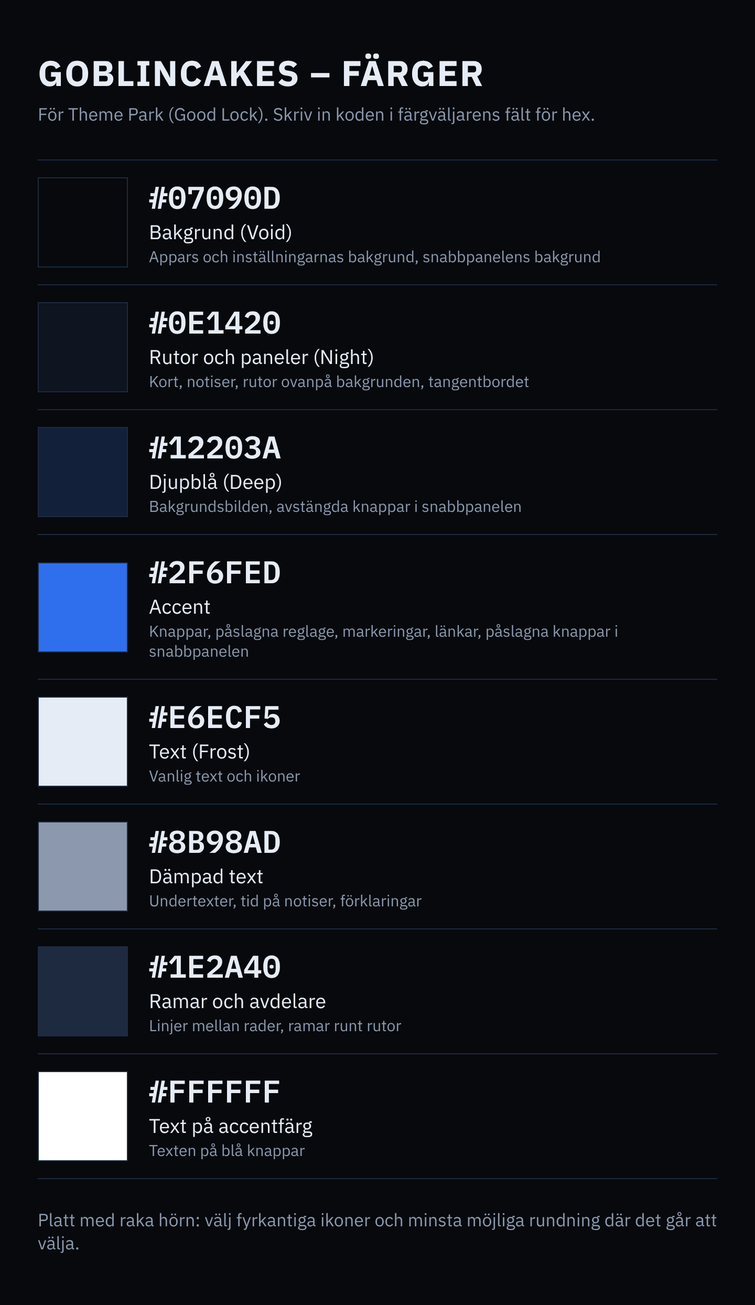
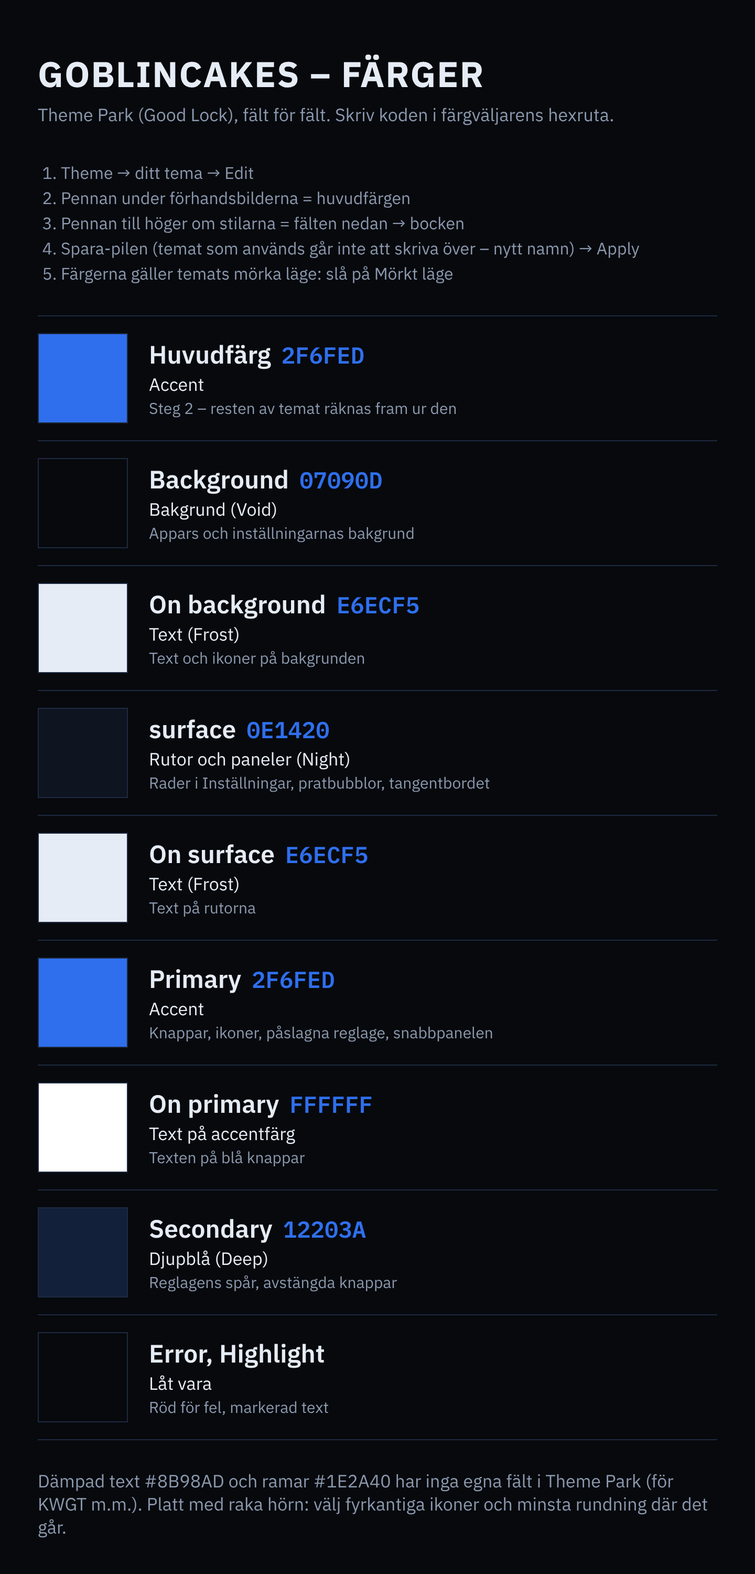
Mobilen: färglistan med Theme Parks riktiga fältnamn och var de finns
Provat på S24 Ultra via adb: huvudfärg + nio fält (Background, On background,
surface, On surface, Primary, On primary, Secondary, Error, Highlight).

diff --git a/mobil/farglista.html b/mobil/farglista.html
@@ -8,19 +8,29 @@
   .sub{color:#8B98AD;font-size:17px;margin-bottom:32px}
   .row{display:flex;align-items:center;gap:20px;padding:16px 0;border-top:1px solid #1E2A40}
   .sw{width:84px;height:84px;flex:none;border:1px solid #1E2A40}
-  .hex{font-family:"IBM Plex Mono",monospace;font-size:30px;font-weight:600}
-  .what{font-size:19px;margin-top:2px}
+  .field{font-size:24px;font-weight:600}
+  .hex{font-family:"IBM Plex Mono",monospace;font-size:22px;color:#2F6FED;margin-left:10px}
+  .what{font-size:17px;margin-top:2px}
   .ex{color:#8B98AD;font-size:15px;margin-top:2px}
+  ol{color:#8B98AD;font-size:16px;margin:0 0 28px;padding-left:22px;line-height:1.5}
 </style></head><body><div class="wrap">
 <h1>GOBLINCAKES – FÄRGER</h1>
-<div class="sub">För Theme Park (Good Lock). Skriv in koden i färgväljarens fält för hex.</div>
-<div class="row"><div class="sw" style="background:#07090D"></div><div><div class="hex">#07090D</div><div class="what">Bakgrund (Void)</div><div class="ex">Appars och inställningarnas bakgrund, snabbpanelens bakgrund</div></div></div>
-<div class="row"><div class="sw" style="background:#0E1420"></div><div><div class="hex">#0E1420</div><div class="what">Rutor och paneler (Night)</div><div class="ex">Kort, notiser, rutor ovanpå bakgrunden, tangentbordet</div></div></div>
-<div class="row"><div class="sw" style="background:#12203A"></div><div><div class="hex">#12203A</div><div class="what">Djupblå (Deep)</div><div class="ex">Bakgrundsbilden, avstängda knappar i snabbpanelen</div></div></div>
-<div class="row"><div class="sw" style="background:#2F6FED"></div><div><div class="hex">#2F6FED</div><div class="what">Accent</div><div class="ex">Knappar, påslagna reglage, markeringar, länkar, påslagna knappar i snabbpanelen</div></div></div>
-<div class="row"><div class="sw" style="background:#E6ECF5"></div><div><div class="hex">#E6ECF5</div><div class="what">Text (Frost)</div><div class="ex">Vanlig text och ikoner</div></div></div>
-<div class="row"><div class="sw" style="background:#8B98AD"></div><div><div class="hex">#8B98AD</div><div class="what">Dämpad text</div><div class="ex">Undertexter, tid på notiser, förklaringar</div></div></div>
-<div class="row"><div class="sw" style="background:#1E2A40"></div><div><div class="hex">#1E2A40</div><div class="what">Ramar och avdelare</div><div class="ex">Linjer mellan rader, ramar runt rutor</div></div></div>
-<div class="row" style="border-bottom:1px solid #1E2A40"><div class="sw" style="background:#FFFFFF"></div><div><div class="hex">#FFFFFF</div><div class="what">Text på accentfärg</div><div class="ex">Texten på blå knappar</div></div></div>
-<div class="sub" style="margin:28px 0 0">Platt med raka hörn: välj fyrkantiga ikoner och minsta möjliga rundning där det går att välja.</div>
+<div class="sub">Theme Park (Good Lock), fält för fält. Skriv koden i färgväljarens hexruta.</div>
+<ol>
+  <li>Theme → ditt tema → Edit</li>
+  <li>Pennan under förhandsbilderna = huvudfärgen</li>
+  <li>Pennan till höger om stilarna = fälten nedan → bocken</li>
+  <li>Spara-pilen (temat som används går inte att skriva över – nytt namn) → Apply</li>
+  <li>Färgerna gäller temats mörka läge: slå på Mörkt läge</li>
+</ol>
+<div class="row"><div class="sw" style="background:#2F6FED"></div><div><div class="field">Huvudfärg<span class="hex">2F6FED</span></div><div class="what">Accent</div><div class="ex">Steg 2 – resten av temat räknas fram ur den</div></div></div>
+<div class="row"><div class="sw" style="background:#07090D"></div><div><div class="field">Background<span class="hex">07090D</span></div><div class="what">Bakgrund (Void)</div><div class="ex">Appars och inställningarnas bakgrund</div></div></div>
+<div class="row"><div class="sw" style="background:#E6ECF5"></div><div><div class="field">On background<span class="hex">E6ECF5</span></div><div class="what">Text (Frost)</div><div class="ex">Text och ikoner på bakgrunden</div></div></div>
+<div class="row"><div class="sw" style="background:#0E1420"></div><div><div class="field">surface<span class="hex">0E1420</span></div><div class="what">Rutor och paneler (Night)</div><div class="ex">Rader i Inställningar, pratbubblor, tangentbordet</div></div></div>
+<div class="row"><div class="sw" style="background:#E6ECF5"></div><div><div class="field">On surface<span class="hex">E6ECF5</span></div><div class="what">Text (Frost)</div><div class="ex">Text på rutorna</div></div></div>
+<div class="row"><div class="sw" style="background:#2F6FED"></div><div><div class="field">Primary<span class="hex">2F6FED</span></div><div class="what">Accent</div><div class="ex">Knappar, ikoner, påslagna reglage, snabbpanelen</div></div></div>
+<div class="row"><div class="sw" style="background:#FFFFFF"></div><div><div class="field">On primary<span class="hex">FFFFFF</span></div><div class="what">Text på accentfärg</div><div class="ex">Texten på blå knappar</div></div></div>
+<div class="row"><div class="sw" style="background:#12203A"></div><div><div class="field">Secondary<span class="hex">12203A</span></div><div class="what">Djupblå (Deep)</div><div class="ex">Reglagens spår, avstängda knappar</div></div></div>
+<div class="row" style="border-bottom:1px solid #1E2A40"><div class="sw" style="background:#07090D"></div><div><div class="field">Error, Highlight</div><div class="what">Låt vara</div><div class="ex">Röd för fel, markerad text</div></div></div>
+<div class="sub" style="margin:28px 0 0">Dämpad text #8B98AD och ramar #1E2A40 har inga egna fält i Theme Park (för KWGT m.m.). Platt med raka hörn: välj fyrkantiga ikoner och minsta rundning där det går.</div>
 </div></body></html>

diff --git a/docs/anteckningar.md b/docs/anteckningar.md
@@ -183,7 +183,7 @@ Kör `git pull`, svara sedan med vilket steg hen är på (första ej avbockade s
 - **Kakan uppdaterar WoW-tilläggen / GoblinUp (18 nov, användarens idé: "väldigt bra idé" – bara idé, inget byggt):** förebild [LemonUp](https://github.com/archcorsair/lemonup) (Rust, TUI + CLI, MIT; GitHub/WoWInterface/TukUI/Wago, ångra, WTF-backup, Retail + Forever). Användaren saknar inget i WowUp-CF, gillar LemonUps utseende. **Ingen CurseForge** (användarens beslut 18 nov: inte ett fan av Overwolf; nyckeln är personlig, får inte delas = aldrig i repot/imagen, villkoren förbjuder konkurrerande produkter). Av tilläggen som WowUp hämtar från CF har de flesta Wago/WoWI-ID i `.toc` (BigWigs, LittleWigs, BugSack, SimulationCraft, EllesmereUI, atrocityEssentials); bara CF: Forever Graphics Enhancer, troligen Follow The Arrow och Naowh Forever (GitHub-repon med samma namn av andra), BugGrabber okollad; användarens egna Keystone Display (har GitHub-repo), Simple Quest Remover, Simple Gear Planner kan läggas på GitHub/Wago. Kakan-delen: via LemonUps CLI eller en egen GoblinUp (ungefär en stor ändring). Provat för hand 18 nov: hittade inte WoW själv (prefixet på Spel-disken är ingen vanlig plats → sökvägen fick skrivas in; ett Config-val kan fylla i den). Wago-nyckeln: KeyRejected – LemonUp vill ha **Wago Addons**-nyckeln (addons.wago.io, bara för Patreon-supportrar), troligen inte samma som en wago.io-nyckel (WeakAuras); GitHub/WoWInterface/TukUI går utan nyckel.
 - **Kakan snabbare med Qwen (16 nov, användarens önskan: sparas som framtida plan – inget byggt):** användaren kör bara qwen3.5:9b nu (6,9 GB, 64k). Tidigare mätning med gemma4 och det som redan är gjort: grep "Kakan snabbare (24 okt)". Med bara Qwen försvinner modellbytet (20 s) om även kodrollen är qwen – kolla `roles` i `~/.config/goblincakes/ollama.json`. **Steg 0, först:** mät på riktiga datorn med qwen (ändrar inget): laddtid, tid till första ord, promptens storlek på en enkel fråga (proven 7 nov: en vanlig fråga börjar på 21–24k tokens). Välj sedan utifrån siffrorna. **Ser snabbare ut:** (1) svaret ord för ord (streaming) – viktigast med Qwen som skriver långa svar; `chat()` i `goblinai.py` + svarsrutan i `Main.qml`, verktygsanropen pusslas ihop ur strömmen; medelstor (veckans stora ändring). (2) tankarna live som en grå rad medan hon tänker (Qwen kan tänka upp till taket 8 000 tokens) – kommer med streamingen. (3) säga ärligt när modellen laddas: kolla `/api/ps` före frågan → "Laddar … ~10 s" (litet). **Snabbare på riktigt:** (4) förvärma när Goblin AI öppnas/när man börjar skriva (`warm_up` finns i goblincakes-ollama; kostar ~22 W medan modellen ligger inne) (litet). (5) mindre prompt för enkla frågor – bara de verktyg som behövs (mät först). (6) mindre logg till långa WoW-frågor – bara den pull/de rader som spelar roll (148 s med gemma4 24 okt). (7) modellerna från Dittan (SATA) till NVMe – ingen kod, flytta i Lokal AI. Förslag: steg 0, sedan 3+4, sedan streaming. **Steg 0 mätt 18 nov** (qwen3.5:9b, RTX 3060, Kakans riktiga kod från repot via `ask()` + omspelning mot Ollama): varje fråga = ~7 800 tokens in, varav verktygslistan 37 verktyg ≈ 23 600 tecken (~6 000 tokens), systemprompten bara ~800 tecken. Inladdad: enkel fråga 0,3–0,6 s (prompten läses 7 800 tok på 0,06 s med cache, 0,39 s utan = ~20 000 tok/s – prompten är **inte** flaskhalsen); första ord 0,1–0,4 s; skrivfart ~50 tok/s. Första frågan efter laddning: 6–7 s (laddning 2,1 s ur filcachen + 4,4 s första körningen på kortet). Från disk (kall filcache, ej mätt – kräver root): uppskattat 13 s + 4 s (6,9 GB på OCZ-SATA ~540 MB/s). Tänkande fråga ("förklara varför SSD…"): 609 tok ut på 13 s – tiden är skrivandet. WoW-parse: två anrop, 4,9 s. **Ingen NVMe i datorn** (lsblk: bara SATA – Kingston 120G, Samsung QVO 1TB, OCZ Dittan) → punkt 7 utgår. Slutsats: förvärmning (4) tar bort 6–17 s på första frågan; streaming (1) gör långa svar (13 s) läsbara från första sekunden; laddningsbesked (3) och mindre prompt (5) ger nästan inget. **Användarens beslut 18 nov: ingen förvärmning just nu** (höga elpriser, vill inte ha de ~22 W extra) – kan tas upp igen senare. Kodrollen behålls som nu (qwen2.5-coder:14b, användaren 18 nov).
 - **Bilreparationer med Kakan (`/bil`) och Kakan från mobilen (15 nov, användarens idé – bara idé, inget byggt):** **`/bil`:** `/bil saab 9-3 vector 2008` sparar bilen som "min bil" (minnet), Kakan frågar vad som ska fixas ("byta länkarmar bak") och tar fram delar (artikelnummer om hon hittar dem), verktyg, åtdragningsmoment, steg för steg och säkerhet (pallbockar, hjulinställning efteråt) – som `/wiki`/`/sök` (ett snedstreckskommando som begränsar verktygen och slår upp före svaret), resultatet kan sparas som PDF. **Källorna är det svåra:** DIY-böcker (Haynes m.fl.) är upphovsrättsskyddade → aldrig i repot/imagen; användarens egna köpta PDF:er (eller Saabs WIS om hen har den) kan Kakan läsa lokalt, men en hel manual ryms inte → sök i den och läs bara rätt sidor = samma behov som "Kakans samtal och kunskapsminne". Utan egen manual: webben (Saab-forum, gratisguider, YouTube). gemma4 kan hitta på moment → varje siffra med källa, annars "hittade ingen källa", aldrig gissa. Storlek: ~1 session med webbsök, mer med sökbara egna manualer. **Kakan från mobilen utanför hemmet:** datorn är på; kräver att den inte går i viloläge och att Kakan körs som tjänst i bakgrunden (i dag är Goblin AI ett fönster). Vägar: (1) **Tailscale + egen webbsida för Kakan** (mobilens webbläsare, inga öppna portar, bara egna inloggade enheter, Tailscale-appen på telefonen, chattsidan måste byggas – rekommenderat, kan även visa bil-PDF:erna); (2) **Telegram-bot** (enklast, notiser gratis, men samtalen via Telegrams servrar – finns som alternativ under "hela familjen"); (3) fjärrskrivbord (KRdp i Plasma/RustDesk – inget att bygga men klumpigt på mobilen, visar hela datorn). **Säkerhet:** utifrån bara den lägre behörighetsnivån (söka, svara, skicka PDF) – aldrig systemkommandon. Storlek: ~1–2 sessioner.
-- **GC-utseende på Android-telefonen (12 nov, användarens idé att testa – bara idé, inget byggt):** telefonen är en Samsung Galaxy S24 Ultra, Nova finns. Utan root (root löser ut Knox för alltid → Samsung Wallet/bankappar kan sluta fungera). **System via Good Lock** (Galaxy Store, gratis): Theme Park (eget tema med exakta färger: Void #07090D/Night #0E1420 bakgrund, accent #2F6FED, text #E6ECF5, ramar #1E2A40; även ikonform), QuickStar (statusfältet), LockStar (låsskärmen), Keys Cafe (tangentbordet), NavStar (navigeringen). **Hemskärm, två vägar:** (1) One UI Home + Home Up + Theme Park-ikoner (rekommenderat – smidigast gester/animationer på Samsung); (2) Nova (mer kontroll, men lite hackigare gester på Samsung; Nova får nästan inga uppdateringar sedan 2025 enligt vad jag minns – kontrollera). **Dashboard-känslan:** KWGT (Kustom Widget) – platta rutor med raka hörn och tunna ramar som Dashboard-ramarna (klocka, batteri, nästa raid, Spotify); KWGT tar egna typsnitt (Chakra Petch, IBM Plex Sans) – Samsungs systemtypsnitt går inte att byta utan krångel. Går inte utan root: startanimationen, djupare systemdelar. **Det vi kan göra från repot om användaren ber om det:** bakgrunder i S24 Ultras format (1440×3120, GC-bakgrunden + en mörk platt), en färdig KWGT-förinställning i GC-stil, en färglista fält för fält för Theme Park, ett ikonpaket med goblinhuvudet (om Nova). **Byggt 19 nov (användaren: "gör båda", Good Lock installerat):** `mobil/` – `gc-mobil.png` (Deep + loggan i egna färger, ovanför mitten), `gc-mobil-mork.png` (Void + loggan ton-i-ton), `farglista.png` (Theme Park-färgerna per roll; fältnamnen i Theme Park okända – kartläggs när användaren visar dem), källor `.svg`/`farglista.html`, README. Bara renderat och granskat i molnet, inte provat på telefonen. **Theme Park via adb – görs hemma vid datorn (19 nov, användaren valde väg 1):** användaren har skapat temat med `gc-mobil.png` men hittar inte färglistan per del. Molnsessionen når inte telefonen och kom inte åt guider som visar Theme Parks färgfält. **Planen (Claude Code på riktiga datorn, ej provat):** (1) telefonen: Inställningar → Om telefonen → Programvaruinformation → tryck 7 gånger på Byggnummer → Utvecklaralternativ → USB-felsökning på; (2) datorn: finns `adb` (`android-tools`)? annars fråga användaren innan något installeras (t.ex. i toolbox/distrobox eller rpm-ostree – ändrar datorn); (3) USB-kabel, godkänn datorns nyckel på telefonen, `adb devices`; (4) `adb exec-out screencap -p > fil.png` → titta → `adb shell input tap x y` / `input text` / `input swipe` – en skärmbild efter varje steg; (5) Good Lock → Theme Park → öppna användarens tema → hitta redigeringen av färger per del → sätt färgerna enligt `mobil/farglista.png` (bakgrund #07090D, rutor #0E1420, accent #2F6FED, text #E6ECF5, dämpad #8B98AD, ramar #1E2A40, text på accent #FFFFFF) → spara → Använd; (6) skriv in Theme Parks riktiga fältnamn → färg här och i `mobil/farglista.html`/README (rendera om PNG:n), så nästa gång går utan adb. Avsluta: USB-felsökning kan stängas av igen. Trycker aldrig i annat än Good Lock/Theme Park. Reserv: scrcpy (användaren klickar själv, Claude läser skärmbilder).
+- **GC-utseende på Android-telefonen (12 nov, användarens idé att testa – bara idé, inget byggt):** telefonen är en Samsung Galaxy S24 Ultra, Nova finns. Utan root (root löser ut Knox för alltid → Samsung Wallet/bankappar kan sluta fungera). **System via Good Lock** (Galaxy Store, gratis): Theme Park (eget tema med exakta färger: Void #07090D/Night #0E1420 bakgrund, accent #2F6FED, text #E6ECF5, ramar #1E2A40; även ikonform), QuickStar (statusfältet), LockStar (låsskärmen), Keys Cafe (tangentbordet), NavStar (navigeringen). **Hemskärm, två vägar:** (1) One UI Home + Home Up + Theme Park-ikoner (rekommenderat – smidigast gester/animationer på Samsung); (2) Nova (mer kontroll, men lite hackigare gester på Samsung; Nova får nästan inga uppdateringar sedan 2025 enligt vad jag minns – kontrollera). **Dashboard-känslan:** KWGT (Kustom Widget) – platta rutor med raka hörn och tunna ramar som Dashboard-ramarna (klocka, batteri, nästa raid, Spotify); KWGT tar egna typsnitt (Chakra Petch, IBM Plex Sans) – Samsungs systemtypsnitt går inte att byta utan krångel. Går inte utan root: startanimationen, djupare systemdelar. **Det vi kan göra från repot om användaren ber om det:** bakgrunder i S24 Ultras format (1440×3120, GC-bakgrunden + en mörk platt), en färdig KWGT-förinställning i GC-stil, en färglista fält för fält för Theme Park, ett ikonpaket med goblinhuvudet (om Nova). **Byggt 19 nov (användaren: "gör båda", Good Lock installerat):** `mobil/` – `gc-mobil.png` (Deep + loggan i egna färger, ovanför mitten), `gc-mobil-mork.png` (Void + loggan ton-i-ton), `farglista.png` (Theme Park-färgerna per roll; fältnamnen i Theme Park okända – kartläggs när användaren visar dem), källor `.svg`/`farglista.html`, README. Bara renderat och granskat i molnet, inte provat på telefonen. **Theme Park via adb – görs hemma vid datorn (19 nov, användaren valde väg 1):** användaren har skapat temat med `gc-mobil.png` men hittar inte färglistan per del. Molnsessionen når inte telefonen och kom inte åt guider som visar Theme Parks färgfält. **Planen (Claude Code på riktiga datorn, ej provat):** (1) telefonen: Inställningar → Om telefonen → Programvaruinformation → tryck 7 gånger på Byggnummer → Utvecklaralternativ → USB-felsökning på; (2) datorn: finns `adb` (`android-tools`)? annars fråga användaren innan något installeras (t.ex. i toolbox/distrobox eller rpm-ostree – ändrar datorn); (3) USB-kabel, godkänn datorns nyckel på telefonen, `adb devices`; (4) `adb exec-out screencap -p > fil.png` → titta → `adb shell input tap x y` / `input text` / `input swipe` – en skärmbild efter varje steg; (5) Good Lock → Theme Park → öppna användarens tema → hitta redigeringen av färger per del → sätt färgerna enligt `mobil/farglista.png` (bakgrund #07090D, rutor #0E1420, accent #2F6FED, text #E6ECF5, dämpad #8B98AD, ramar #1E2A40, text på accent #FFFFFF) → spara → Använd; (6) skriv in Theme Parks riktiga fältnamn → färg här och i `mobil/farglista.html`/README (rendera om PNG:n), så nästa gång går utan adb. Avsluta: USB-felsökning kan stängas av igen. Trycker aldrig i annat än Good Lock/Theme Park. Reserv: scrcpy (användaren klickar själv, Claude läser skärmbilder). **GJORT 19 nov via adb (Googles platform-tools i `~/.local/share/goblincakes/platform-tools/`, ingen udev-regel behövdes; Samsung kallar Byggnummer "Kompileringsnr"):** Theme Park → tema → Edit: pennan under förhandsbilderna = huvudfärg (hexruta), sedan stilraden + pennan till höger = nio fält: Background 07090D, On background E6ECF5, surface 0E1420, On surface E6ECF5, Primary 2F6FED, On primary FFFFFF, Secondary 12203A (var 0E3FA1), Error och Highlight (402D06) orörda. Temat som används kan inte skrivas över → sparat som nytt tema "GOBLINCAKES" (namn: bokstäver/siffror, max 20) och Apply. Färgerna syns i mörkt läge (telefonen stod i ljust). Snabbpanelen blir ljusblå (Primary inblandad) – Theme Park har egen flik "Quick panel". `farglista.html`/`.png` omgjorda med fältnamnen och stegen.
 - **Bågskyttedagbok (11 nov, användaren: "en bra idé" – bara idé, inget byggt):** träningsdagbok för bågskyttet (hittills bara Ianseo, som är för tävlingar). **Plattform:** användaren har stationära datorn + en Lenovo Chromebook Duet 11M889 (MediaTek, ARM, 8 GB/128 GB, 2-i-1) – GC går inte på den (imagerna bara x86_64, MrChromebox stöder inte ARM) → dagboken = **webbapp som körs på stationära datorn** (som Ianseo), installerbar som app (PWA) i Chrome på Duet:en och i telefonen. **Utan nät på banan:** passen sparas lokalt i appen och skickas till stationära datorn när den nås (hemma, eller via Cloudflare-tunnel + lösenord som Ianseo om användaren vill nå den borta). Datan bor på stationära datorn. **Pekläge (Duet:en utan tangentbord vid tavlan):** tryck var varje pil satt på en bild av tavlan → poäng + träffbild direkt; även bara summa per omgång. **Innehåll:** pass och poäng per rond (18 m inne, 70 m ute m.fl.), träffbild/gruppens drift och spridning (t.ex. sämre i slutet av passet), siktmärken per avstånd + uträknade för oprovade avstånd, utrustning (lemmar, dragvikt, pilar spine/längd) kopplad till passen, kurvor över tid (goblin graph-stil), tävlingsresultat hämtade ur Ianseo, och **Kakan analyserar** som med WCL/CS2 ("snittet sjunker efter pil 40", "bäst med nya pilarna").
 - **GOBLINCAKES Dashboard – en utökad AppGrid i stället för dockan och toppfältet (9 nov, användarens idé; **bygget påbörjat 10 nov – se ## GOBLINCAKES Dashboard – bygget**; mockup: https://claude.ai/artifact/QHnDzvKEW8fwPTD1Pveeho):** **Meta** tar fram dashboarden (som AppGrid i dag). När den används syns varken dockan eller toppfältet; på skrivbordet syns då bara **klocka, ethernet, ljud och Spelas nu-widgeten**, resten av systemfältet (Bluetooth, urklipp, enheter, notiser m.m.) hittas inne i dashboarden. **Layout:** överst de **aktiva programmen** på en rad, längst ner **programmen** (som dockan), i mitten **WoW Stats och CS2 Stats** (samma siffror som GoblinRecorder – inga programfönster visas i dashboarden). **Tryck för mer bredvid:** trycker man på en karaktär (t.ex. Kaytho – karaktärerna hämtas från GoblinRecorder) visas dess stats i en ruta bredvid; gärna också en bild av karaktären om det inte blir för tungt (användaren osäker). I CS2 Stats visas på samma sätt detaljer för det man trycker på. **Projekt:** egna projekt (t.ex. GOBLINCAKES) som man själv lägger till; trycker man på ett visas samma val som i Goblin AI:s mappmeny (PROJEKT → MAPPAR i `ai/Main.qml`): Öppna i VS Code, Claude Code här (Goblin AI:s TERMINAL), Claude Code i eget fönster (Ghostty), ev. Codex. **Tankar om bygget:** eget PySide6/QML-fönster i Configs stil, helskärm, KWin-skriptet håller det rätt; stats läses från GoblinRecorders data (inte genom att bädda in fönstret); grundversion uppskattad till 1–2 långa sessioner, karaktärsbilden (Blizzards API) en extra del. **Version 2 av mockupen (9 nov, användarens beslut):** överst de **öppna programmen** (tryck = växla), längst ner **apparna man själv valt** i Config (+ Alla program). **Vänster 1–3 ramar** (t.ex. Projekt, System – CPU/GPU/temp/RAM, Systemfältet), **höger 1–2 ramar** (t.ex. WoW Stats – karaktärer + Senaste raiden, CS2 Stats – senaste matchen); trycker man på något i en ram visas det **i mitten**. Mitten öppnas **där man lämnade den**. WoW i mitten = senaste raiden från **Warcraft Logs via API:t** (samma `wcl_query` som recorder.py/Kakans `warcraftlogs`): bossar, pulls, kill/bästa wipe, din parse, dödsfall, pullarnas stapel, knappar dödsfall/defensiva sidan/Öppna i WCL/Fråga Kakan – **inte** WCL-webbsidan i Chromium (dashboarden ska vara snabb att få upp). **Vyer:** flera sparade vyer (t.ex. SPEL och JOBB, JOBB med ramarna Byggen och Kakan), man **bläddrar** med hjulet/svep/← → och prickar visar vyn. **Config → Dashboard:** vyerna, vad varje ram visar (Projekt, System, Systemfältet, WoW Stats, CS2 Stats, Byggen, Kakan, Steam, Ingen), apparna längst ner; knappen **Anpassa** i dashboarden öppnar sidan. Ramar som inte är valda syns inte och dashboarden krymper (för den som inte spelar WoW/CS2). **Att prova: Discord i mitten (9 nov, användaren: "kan vara en jättedålig idé, men testar man inte så vet man inte"):** mitten är Discords plats – inget annat öppnas där (det man trycker på i ramarna visas i en ruta bredvid/över en sidoram). **Den riktiga Discord-appen, inte webbversionen** (användaren vill inte ha webbversionen; Wayland kan inte bädda in ett annat programs fönster): dashboarden lämnar ett tomt hål, KWin-skriptet `goblincakes-windows` lägger Discords fönster ramlöst exakt i hålet, ovanför dashboarden, och flyttar/ändrar det i takt med dashboardens `frameGeometry` – ser ut som en del av dashboarden. Ingen extra resurs: samma Discord-process som annars (webbversionen hade varit en andra Discord). **Fönsterläge:** dashboarden ska kunna vara öppen hela tiden som ett vanligt flyttbart fönster (egen namnlist, egen skärm) bredvid Meta-läget (helskärm fram/undan); val i Config → Dashboard. Att lösa: minsta storlek (Discord 800×500 → dashboardens minsta mått), minimera/visa tillsammans, Discord taget från systemfältet → tillbaka i hålet, Discord ej igång → knappen "Starta Discord" i hålet, Meta-läget måste gömma/visa Discord i takt (inget blink). Okänt tills provat på riktigt: om Discord släpar efter vid snabb dragning. **Ändrat 9 nov kväll (användaren):** Discord ligger **framme i mitten som standard**; trycker man på WoW Stats/CS2 Stats (m.fl.) visas det **i mitten medan det är öppet**, sedan tillbaka till Discord (alltså ingen ruta bredvid). Tanke om bygget: Discord läggs *under* dashboardens fönster (KWin-skriptet ändrar bara staplingen, inget minimera) när mitten visar annat → inget blink, Discord fortsätter i bakgrunden; Esc/knapp "Tillbaka till Discord". **Helskärmsläge som Plasmas "Instrumentpanel för program"** (`org.kde.plasma.kickerdash`, finns i imagen): helskärm ovanpå allt med mörk bakgrund, program i rutnät + sökning direkt när man skriver, Esc/klick utanför stänger – dashboarden ska kunna göra samma sak (KWin-genvägen öppnar, skriv = sök). **BESLUT 9 nov kväll (användaren): Discord ligger separat, inte i dashboarden** (ska kunna synas hela tiden). Allt om Discord i mitten ovan är strukket; mitten visar det man trycker på i ramarna, och vad som ska visas där bestäms när dashboarden byggs. **Känslan (samma kväll, användaren provade Instrumentpanel för program):** gillar hur den känns (helskärm, mörkt, sök direkt) – men vill ha **mer information** än den, inte mindre som i början. **Innehållet (användarens val 9 nov):** WoW Stats, CS2 Stats, System (CPU/GPU/temp/RAM + **disk**), Projekt, Systemfältet, **Spelas nu** (albumbild, start/paus, föregående/nästa), **Kvoten**; Byggen i JOBB-vyn (visat i mockupen v3: senaste bygget + de 10 senaste, mitten = lista med commit/ändring/orsak – samma källa som `buildstatus.py`). **Mockup v3 (9 nov kväll, användaren: "det blir bra"):** Spelas nu (albumbild, föregående/start-paus/nästa) nere till höger i alla vyer, Kvot nere till vänster, **Systemfältet = klickbara ikoner under GOBLINCAKES-loggan** (nätverk, ljud, Bluetooth, notiser med siffra, urklipp, enheter – tryck = liten ruta med mer). **Skrivbordet:** klockan uppe i mitten, datum + vecka mindre under, ethernet till vänster och ljud till höger om klockan; **Discord i egen ruta till vänster om ethernet, Spelas nu i egen ruta till höger om ljudet** – allt på en rad uppe i mitten. **Lika på båda sidor, inget neråt (användaren):** Steam (nedladdning/shaders) längst till vänster och Kakan (vad Goblin AI gör) längst till höger – båda syns bara medan något pågår; batterier i klockrutan: mus/handkontroll till vänster om ethernet, headset till höger om ljudet (dagens Spelas nu-widget visar musik, Discord-röst, Steam, Goblin AI och batterier – fördelas så). **Raden göms av fönster (användarens beslut 9 nov: väg 2):** raden blir ett Plasma-fält (som toppfältet, genomskinlig bakgrund mellan rutorna) som **döljer sig när ett fönster ligger där och kommer fram när musen går mot överkanten**; man trycker och den försvinner igen – som dockan i dag (Plasma 6: `dodgewindows`/`autohide`; obs från dockan: dodgewindows gömmer sig bara för det *aktiva* fönstret). Tomt skrivbord = raden syns. Bortvalt: alltid överst med reserverad höjd (väg 1), bara i dashboarden (väg 3). **Ett val, inte en ersättning (användarens beslut 9 nov):** dashboarden + skrivbordsraden är ett **alternativ** till dagens upplägg (toppfält + docka + AppGrid) – alla vill inte dölja allt. Val i Config (t.ex. Utseende → Skrivbordets upplägg: "Toppfält och docka" / "Dashboard"); byte ska gå åt båda hållen utan att något tappas (panelerna sparas/återställs). **Standard = dagens upplägg (toppfält och docka)** – användaren är mycket nöjd med det; dashboarden är ett alternativ man väljer själv.
 - **Kakan på en egen dator – extern plats för hjärnan (30 okt, användarens idé – bara idé, inget köpt eller byggt):** en minidator bredvid speldatorn som bara kör Ollama, dygnet runt. **Upplägg:** bara Ollama flyttar; Goblin AI-programmet och verktygen stannar på speldatorn (de styr hennes skrivbord, filer, spel). Kräver en inställning för var Ollama finns (i dag hårdkodat `127.0.0.1:11434` i `goblinai.py`, `aftercheck.py`, `goblincakes-ollama`), att spelvakten inte stänger av en fjärr-Ollama, och modellförslagen (`TIERS`) efter fjärrdatorns minne. **Vinster:** alltid på även under WoW/CS2, inget modellbyte när spel startar, hela RTX 3060 till spel, större modeller. **Förslaget:** NiPoGi G2 Pro (Ryzen 9 270 = 8945HS-klass, Radeon 780M, 32 GB LPDDR5 fastlött, 1 TB, OCuLink, 2×USB4, ~799 € okt 2026). Med 16–24 GB till grafiken ryms 16 GB-nivån: `gemma4:26b`, `qwen3-coder:30b`, `qwen3-vl:30b` (MoE, uppskattat 15–25 ord/s – ej uppmätt). Sämre än 3060: inläsning av långa texter (5–10× långsammare), bildgenerering (Z-Image stannar på speldatorn). Röst (Whisper/Piper) går bra på processorn. Ollama på 780M: ROCm stöder inte gfx1103 officiellt → Vulkan-läget eller `HSA_OVERRIDE_GFX_VERSION=11.0.0`. NPU:n används inte av Ollama. **Jämfört (okt 2026):** HX 370/470 (890M, ~120 GB/s) bara ~20 % snabbare; Ryzen AI Max+ 395 64 GB (t.ex. GMKtec EVO-X2, ~2 000 €) 2–3× snabbare men över budgeten (~10 000 kr); Intel-NPU, Hailo, Coral, Mac mini 16–24 GB hoppas över. **Utbyggnad:** begagnat RTX 3090 24 GB (trodde ~8 000–8 500 kr på Blocket – användaren hittade inga under 15 000 kr 30 okt) via OCuLink → snabbare än Strix Halo på allt som ryms i 24 GB. Användaren: "då är det bara pengar som behövs" – G2 Pro först, kortet senare.

diff --git a/mobil/README.md b/mobil/README.md
@@ -4,8 +4,8 @@ Bakgrunder och färglista för att ge en Android-telefon GOBLINCAKES-utseende (g
 
 - `gc-mobil.png` – djupblå med goblin-loggan i egna färger
 - `gc-mobil-mork.png` – mörk och platt, loggan ton-i-ton
-- `farglista.png` – färgerna för Theme Park (Good Lock), att ha uppe bredvid
+- `farglista.png` – färgerna för Theme Park (Good Lock) fält för fält (Background, On background, surface, On surface, Primary, On primary, Secondary) och var man hittar dem – provad på S24 Ultra 19 nov
 
 Skicka till telefonen med GoblinShare (LocalSend) eller ladda ner från GitHub.
 
-Källorna är `*.svg` och `farglista.html`; PNG-filerna renderas med Chromium (Playwright): bakgrunderna i 1440×3120 med skala 1, färglistan 720 bred med skala 2 (hela sidan).
+Källorna är `*.svg` och `farglista.html`; PNG-filerna renderas med Chromium (Playwright): bakgrunderna i 1440×3120 med skala 1, färglistan 720 bred med skala 2 (hela sidan). Utan Playwright: `flatpak run org.chromium.Chromium --headless=new --force-device-scale-factor=2 --window-size=720,1500 --screenshot=… file://…/farglista.html`.

diff --git a/CLAUDE.md b/CLAUDE.md
@@ -74,7 +74,7 @@ Källan: https://claude.ai/artifact/BqT4GjvtTacjAgiCnRKwqt – följ den exakt (
 - [ ] **Bilder i Goblin AI:s terminal** – bildvägar blir länkar (hovra/klick), byggt 17 nov, testlista `terminal-bilder.md` (grep "Bildvägar som länkar").
 - [ ] **GoblinUp** – skal över WowUp i dashboarden + `goblin tillägg` + Kakan, byggt 18 nov, testlista `goblinup.md` (grep "GoblinUp – bygget").
 - [ ] **FILER + signalen i Goblin AI:s TERMINAL** – filvy bredvid terminalen + prick/blink när Claude väntar, byggt 18 nov, testlista `filer-signalen.md` (grep "FILER bredvid TERMINAL").
-- [ ] **GC-färger på mobilen (Theme Park)** – bakgrunder + färglista i `mobil/` 19 nov; nästa: hemma vid datorn ställer Claude in färgerna via adb (grep "Theme Park via adb").
+- [ ] **GC-färger på mobilen (Theme Park)** – temat GOBLINCAKES satt via adb 19 nov; kvar: användaren tittar i mörkt läge, ev. Quick panel-fliken (grep "Theme Park via adb").
 - [ ] **Engelsk version** (qsTr/gettext; 2–3 långa sessioner).
 
 ## Framtida idéer
